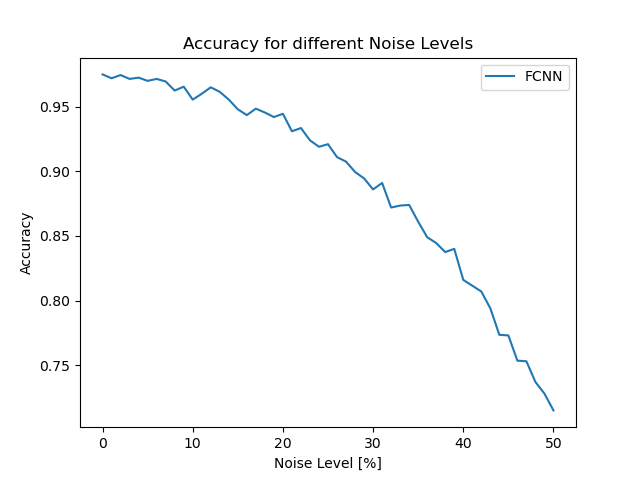
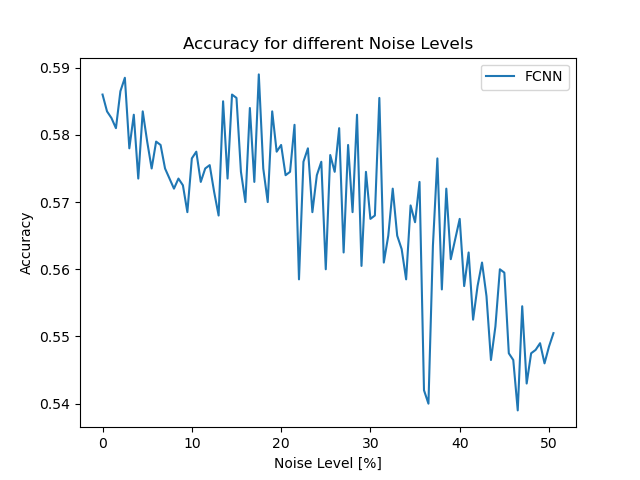
added DT

diff --git a/netz/eval_netz.py b/netz/eval_netz.py
@@ -6,44 +6,44 @@ import matplotlib.pyplot as plt
 import torch
 from torch.autograd import Variable 
 
-netz = torch.load('saved_netz.py')
-netzfc = torch.load('saved_fc_netz.py')
+# netz = torch.load('saved_netz.py')
+# netzfc = torch.load('saved_fc_netz.py')
 # netzwon = torch.load('saved_fc_netz_won.py')
-# netzfc = torch.load('saved_netz_join.py')
+netzfc = torch.load('saved_fc_netz_join.py')
 
-netz = netz.cpu()
+# netz = netz.cpu()
 netzfc = netzfc.cpu() 
 #netzwon = netzwon.cpu()
 
 def test_var_noise():
-  netz.eval()
+  #netz.eval()
   netzfc.eval()
-  hits = 0
+  #hits = 0
   hits_fc = 0
   #hits_won = 0
-  hits_algo = 0
+  #hits_algo = 0
   for input, target in testing_data:
     input = torch.tensor(noise_matrix(np.array(input[0]), a, b))
-    algo_erg = check_inf_sites(np.array(input))
-    if (algo_erg == int(target[0])): hits_algo += 1
-    expanded_input = torch.unsqueeze(input, 0)
-    expanded_input = expanded_input.repeat(1,1,1,1)
-    expanded_input = expanded_input.transpose(0, 1)
-    expanded_input = Variable(expanded_input)
-    output = netz(expanded_input)
+    #algo_erg = check_inf_sites(np.array(input))
+    #if (algo_erg == int(target[0])): hits_algo += 1
+    #expanded_input = torch.unsqueeze(input, 0)
+    #expanded_input = expanded_input.repeat(1,1,1,1)
+    #expanded_input = expanded_input.transpose(0, 1)
+    #expanded_input = Variable(expanded_input)
+    #output = netz(expanded_input)
     output_fc = netzfc(input)
     #output_won = netzwon(input)
     target = Variable(target)
-    if(torch.round(output) == target): hits += 1
+    #if(torch.round(output) == target): hits += 1
     if(torch.round(output_fc) == target): hits_fc += 1
     #if(torch.round(output_won) == target): hits_won += 1
-  return (hits/len(testing_data)), (hits_fc/len(testing_data)), (hits_algo/len(testing_data))
-  #return (hits_fc/len(testing_data))
+  #return (hits/len(testing_data)), (hits_fc/len(testing_data)), (hits_algo/len(testing_data))
+  return (hits_fc/len(testing_data))
 
-acc = []
+#acc = []
 acc_fc = []
 #acc_won = []
-acc_algo = []
+#acc_algo = []
 noise = []
 
 b = 0
@@ -53,24 +53,24 @@ while (b < 0.51):
   print(b)
   if(b == 0): a = 0
   else: a = 10**(-5)
-  net, fc, algo = test_var_noise()
-  # fc = test_var_noise()
-  acc.append(net)
+  #net, fc, algo = test_var_noise()
+  fc = test_var_noise()
+  #acc.append(net)
   acc_fc.append(fc)
   #acc_won.append(won)
-  acc_algo.append(algo)
+  #acc_algo.append(algo)
   noise.append(b*100)
   b += 0.005
 
 
-plt.plot(noise, acc, label = "CNN")
+#plt.plot(noise, acc, label = "CNN")
 plt.plot(noise, acc_fc, label = "FCNN")
 #plt.plot(noise, acc_won, label = "FCNN without Noise")
-plt.plot(noise, acc_algo, label = "Algorithm")
+#plt.plot(noise, acc_algo, label = "Algorithm")
 plt.ylabel('Accuracy')
 plt.xlabel('Noise Level [%]')
 plt.title('Accuracy for different Noise Levels')
 plt.legend()
-plt.savefig('../results/Accuracy_Noise.png')
+plt.savefig('../results/Accuracy_Noise_Join.png')
 plt.show()
 

diff --git a/tests/hlp_fncs.py b/tests/hlp_fncs.py
@@ -1,27 +1,18 @@
 import numpy as np
 import torch
-import random as rand
-import torch.nn as nn
 
 def read_data_mat(input):
-
   data = []
-
   file = open(input, "r")
-
   content = file.read()
-
   matrices = content.split('\n\n')
-
   for m in matrices:
     rows = m.split('\n')
     matrix = [list(map(int, list(row))) for row in rows]    
     data.append(np.array(matrix))
-
   return data
 
 def check_inf_sites(m):
-
   for i in range(np.shape(m)[1]):
     for j in range(i+1, np.shape(m)[1]):
       col1 = m[:,i]
@@ -33,7 +24,6 @@ def check_inf_sites(m):
       found_same = (len(list(set(indices1) & set(indices2))) != 0)
 
       if found_diff & found_same: return False
-
   return True
 
 def check_inf_sites_list(data_inf, data_fin):
@@ -43,23 +33,16 @@ def check_inf_sites_list(data_inf, data_fin):
     if(not check_inf_sites(fin)): count += 1
   return count/(len(data_fin)*2)
 
-
-
 def read_data_tens(input):
 
   data = []
-
   file = open(input, "r")
-
   content = file.read()
-
   matrices = content.split('\n\n')
-
   for m in matrices:
     rows = m.split('\n')
     matrix = [list(map(float, list(row))) for row in rows]    
     data.append(torch.Tensor(matrix))
-
   return data
 
 def write_data(path, data):
@@ -100,3 +83,6 @@ def noise_matrix(mat, alpha, beta):
       else:
         if np.random.random() < beta: noise_mat[i,j] = 0
   return noise_mat
+
+def accuracy(output, target):
+  return float(sum(torch.round(output) == target)/output.size()[0])

diff --git a/tests/dt.py b/tests/dt.py
@@ -1,0 +1,64 @@
+from sklearn import tree
+import numpy as np
+import random
+import matplotlib.pyplot as plt
+from hlp_fncs import *
+
+inf = read_data_mat("../data/train_inf_noise_sorted.txt")
+
+inf = [(i, 1) for i in inf]
+
+fin = read_data_mat("../data/train_inf_noise_sorted.txt")
+
+fin = [(f, 0) for f in fin]
+
+train_data = inf + fin
+
+random.shuffle(train_data)
+
+inputs = [np.reshape(d[0], 100) for d in train_data]
+targets = [d[1] for d in train_data]
+
+print("start fitting")
+clf = tree.DecisionTreeClassifier()
+
+clf = clf.fit(inputs, targets)
+
+inf = read_data_mat("../data/test_inf_sorted.txt")
+inf = [(i, 1) for i in inf]
+
+fin = read_data_mat("../data/test_fin_sorted.txt")
+fin = [(f, 0) for f in fin]
+
+test_data = inf + fin
+random.shuffle(test_data)
+
+b = 0
+acc = []
+noise = []
+
+print("start evaluation")
+
+while (b < 0.51):
+  print(b)
+  if(b == 0): a = 0
+  else: a = 10**(-5)
+  hits = 0
+  for input, target in test_data:
+    input = noise_matrix(input, a, b)
+    input = np.reshape(input, 100)
+    input = np.reshape(input, (1, -1))
+    output = clf.predict(input)
+    if (output[0] == target): hits += 1
+  acc.append(hits/len(test_data))
+  noise.append(b*100)
+  b += 0.005
+
+plt.plot(noise, acc)
+plt.ylabel('Accuracy')
+plt.xlabel('Noise Level [%]')
+plt.title('Accuracy for different Noise Levels')
+plt.savefig('../results/Accuracy_Noise_DT.png')
+plt.show()
+
+

diff --git a/tests/check_phylo.py b/tests/check_phylo.py
@@ -3,7 +3,7 @@ import numpy as np
 import string
 import subprocess
 
-data_inf = read_data_mat("../data/test_inf_noise_5.txt")
+data_inf = read_data_mat("../data/test_inf_noise_5_sorted.txt")
 
 count_inf = 0
 
@@ -11,7 +11,7 @@ for mat in data_inf:
   if(check_inf_sites(mat)): count_inf += 1
 
 
-data_fin = read_data_mat("../data/test_fin_noise_5.txt")
+data_fin = read_data_mat("../data/test_fin_noise_5_sorted.txt")
 
 count_fin = 0
 
@@ -20,14 +20,14 @@ for mat in data_fin:
 
 print("5%:", (count_fin+count_inf)/2000)
 
-data_inf = read_data_mat("../data/test_inf_noise_15.txt")
+data_inf = read_data_mat("../data/test_inf_noise_15_sorted.txt")
 
 count_inf = 0
 
 for mat in data_inf:
   if(check_inf_sites(mat)): count_inf += 1
 
-data_fin = read_data_mat("../data/test_fin_noise_15.txt")
+data_fin = read_data_mat("../data/test_fin_noise_15_sorted.txt")
 
 count_fin = 0
 
@@ -36,7 +36,7 @@ for mat in data_fin:
 
 print("15%:", (count_fin+count_inf)/2000)
 
-data_inf = read_data_mat("../data/test_inf_noise_25.txt")
+data_inf = read_data_mat("../data/test_inf_noise_25_sorted.txt")
 
 count_inf = 0
 
@@ -44,7 +44,7 @@ for mat in data_inf:
   if(check_inf_sites(mat)): count_inf += 1
 
 
-data_fin = read_data_mat("../data/test_fin_noise_25.txt")
+data_fin = read_data_mat("../data/test_fin_noise_25_sorted.txt")
 
 count_fin = 0
 

diff --git a/netz/train_fc_netz.py b/netz/train_fc_netz.py
@@ -5,8 +5,8 @@ import torch.optim as optim
 import matplotlib.pyplot as plt
 
   
-training_data = get_train_dataset("../data/train_join_noise.txt", "../data/train_inf_noise.txt", 256)
-testing_data = get_train_dataset("../data/test_join_noise_15.txt", "../data/test_inf_noise_15.txt", 10)
+training_data = get_train_dataset("../data/train_fin_noise_sorted.txt", "../data/train_inf_noise_sorted.txt", 256)
+testing_data = get_train_dataset("../data/test_fin_noise_5_sorted.txt", "../data/test_inf_noise_5_sorted.txt", 10)
 
 netz = FC_Netz()
 
@@ -28,7 +28,7 @@ for epoch in range(100):
   test_acc.append(te_acc)
   test_loss.append(te_loss)
 
-torch.save(netz, 'saved_fc_netz_join.py')
+torch.save(netz, 'saved_fc_netz.py')
 
 plt.plot(train_acc, label = "Training Accuracy")
 plt.plot(test_acc, label = "Testing Accuracy")
@@ -37,5 +37,5 @@ plt.plot(test_loss, label = "Testing Loss")
 plt.xlabel('Epoch')
 plt.title('Learning Curves')
 plt.legend()
-plt.savefig('../results/Learning_Curves_Join.png')
+plt.savefig('../results/Learning_Curves.png')
 plt.show()
